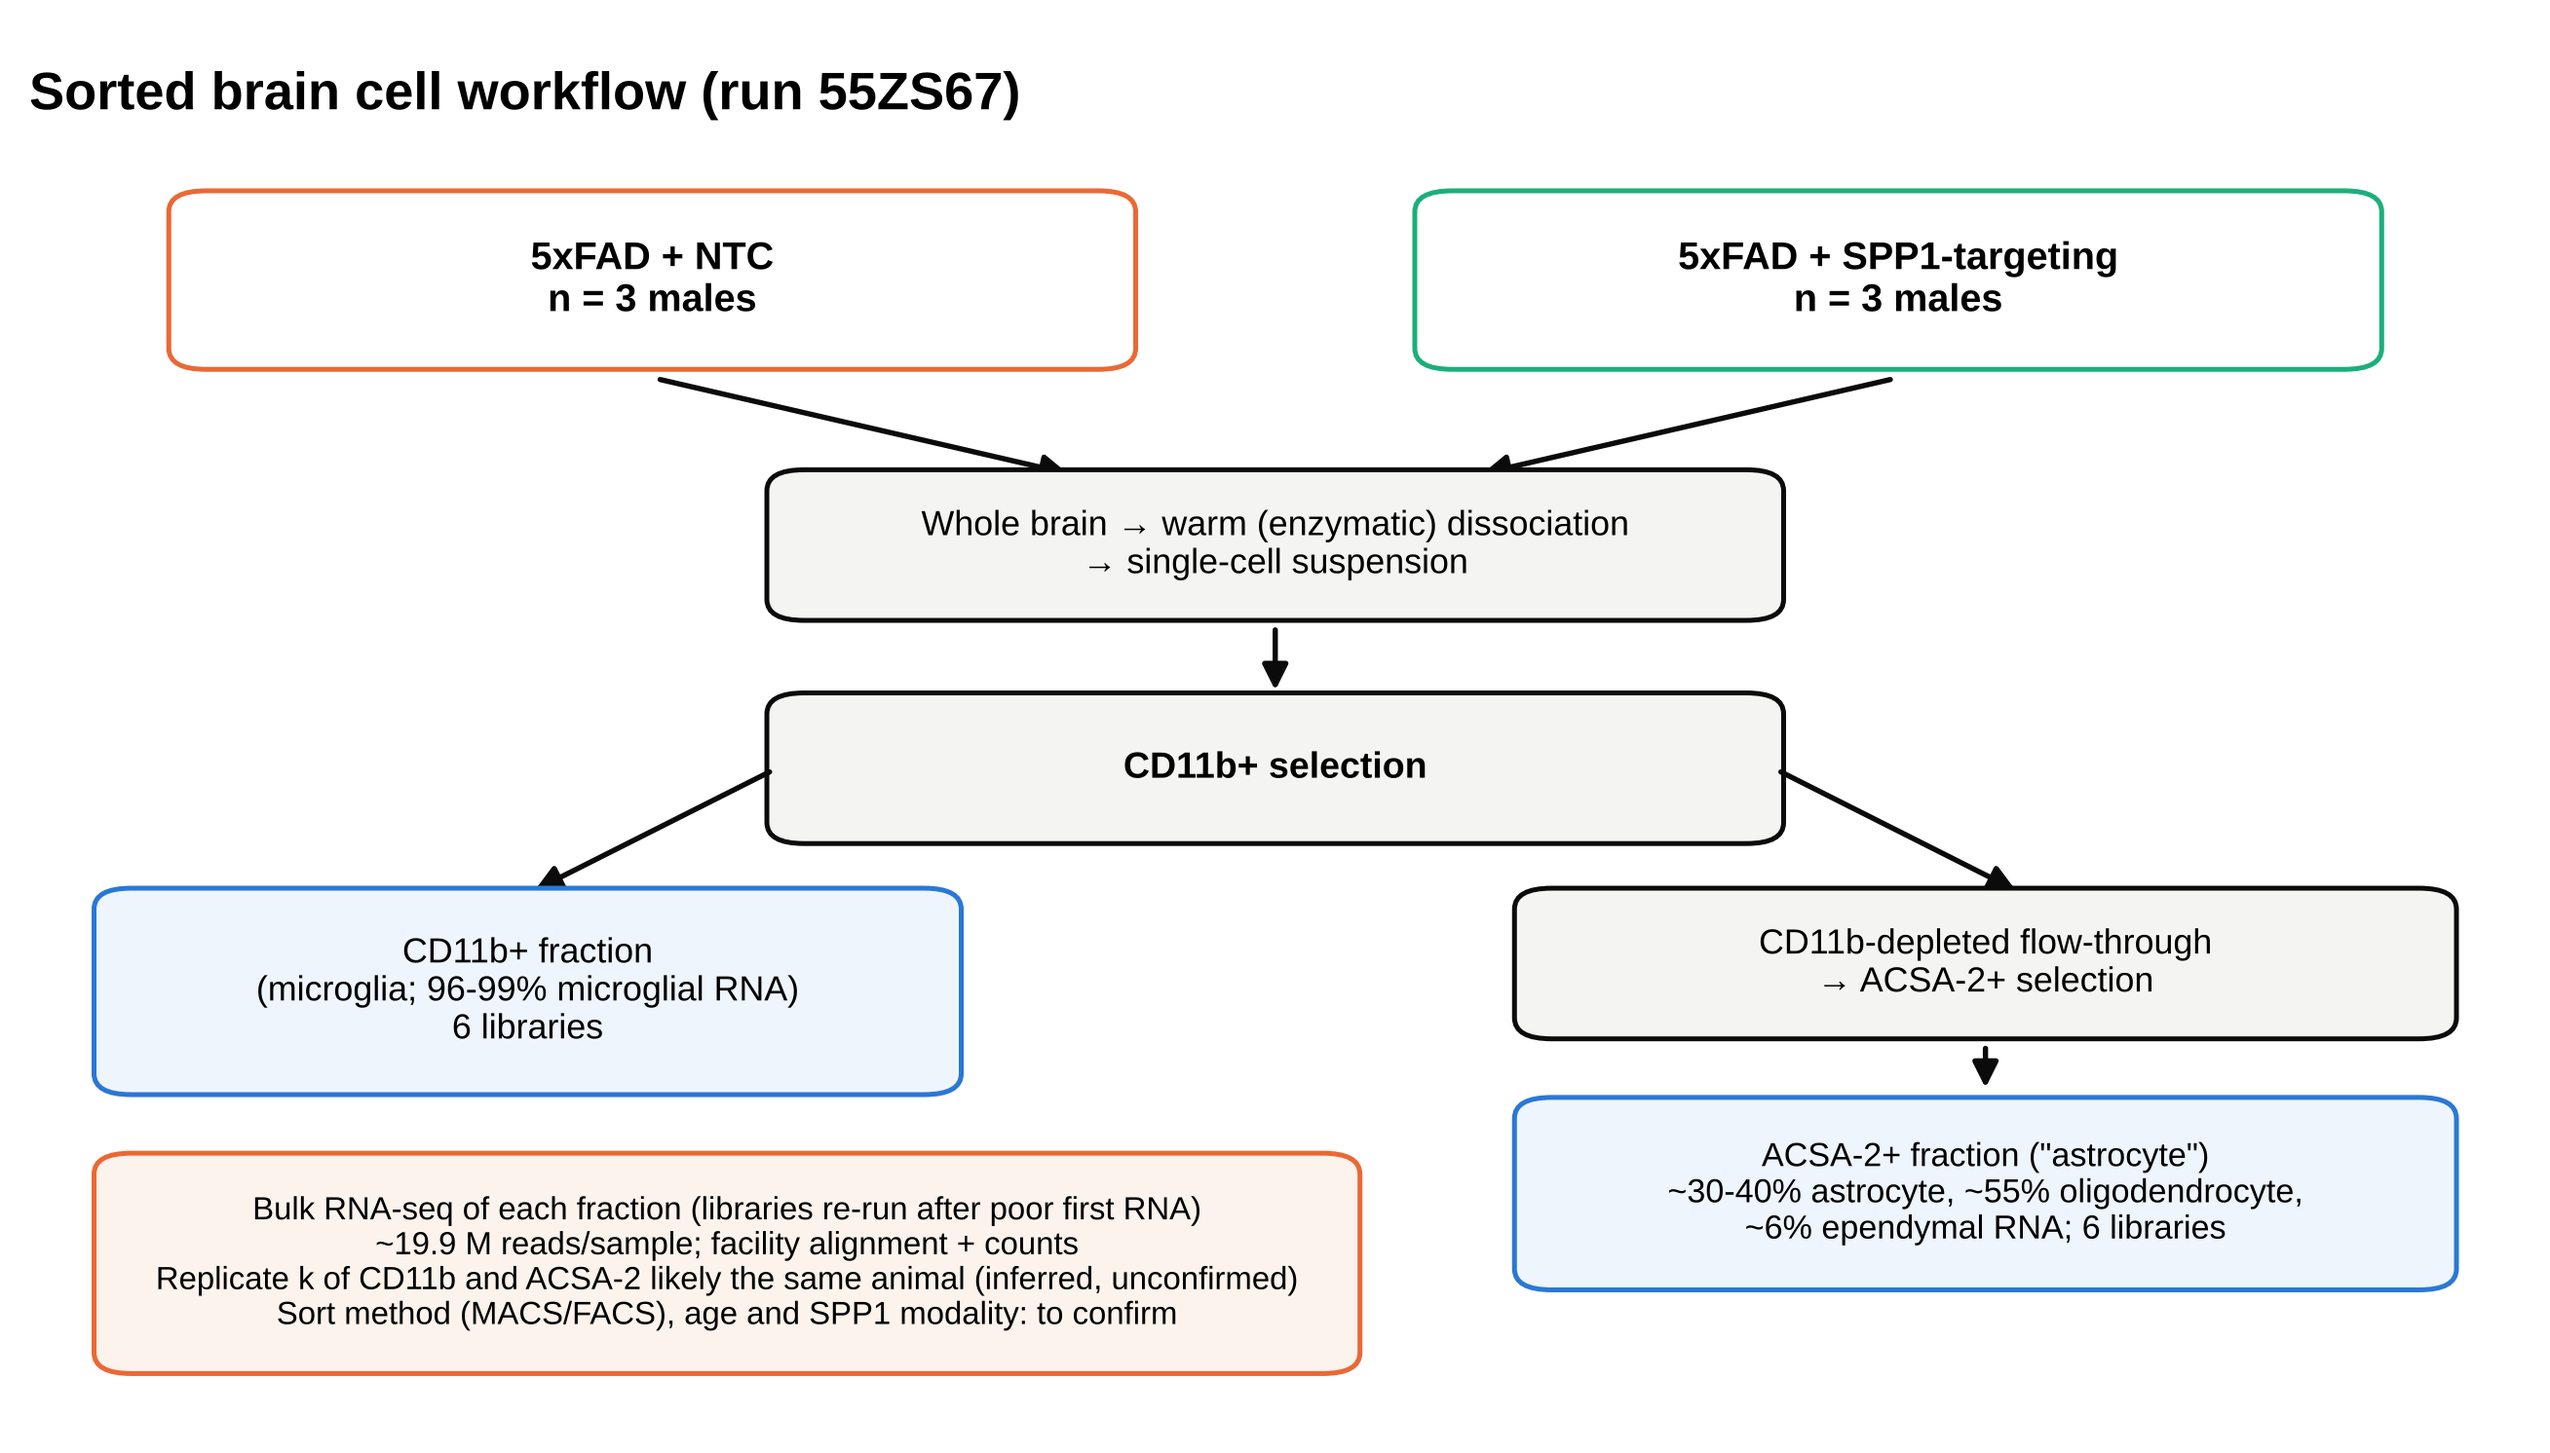
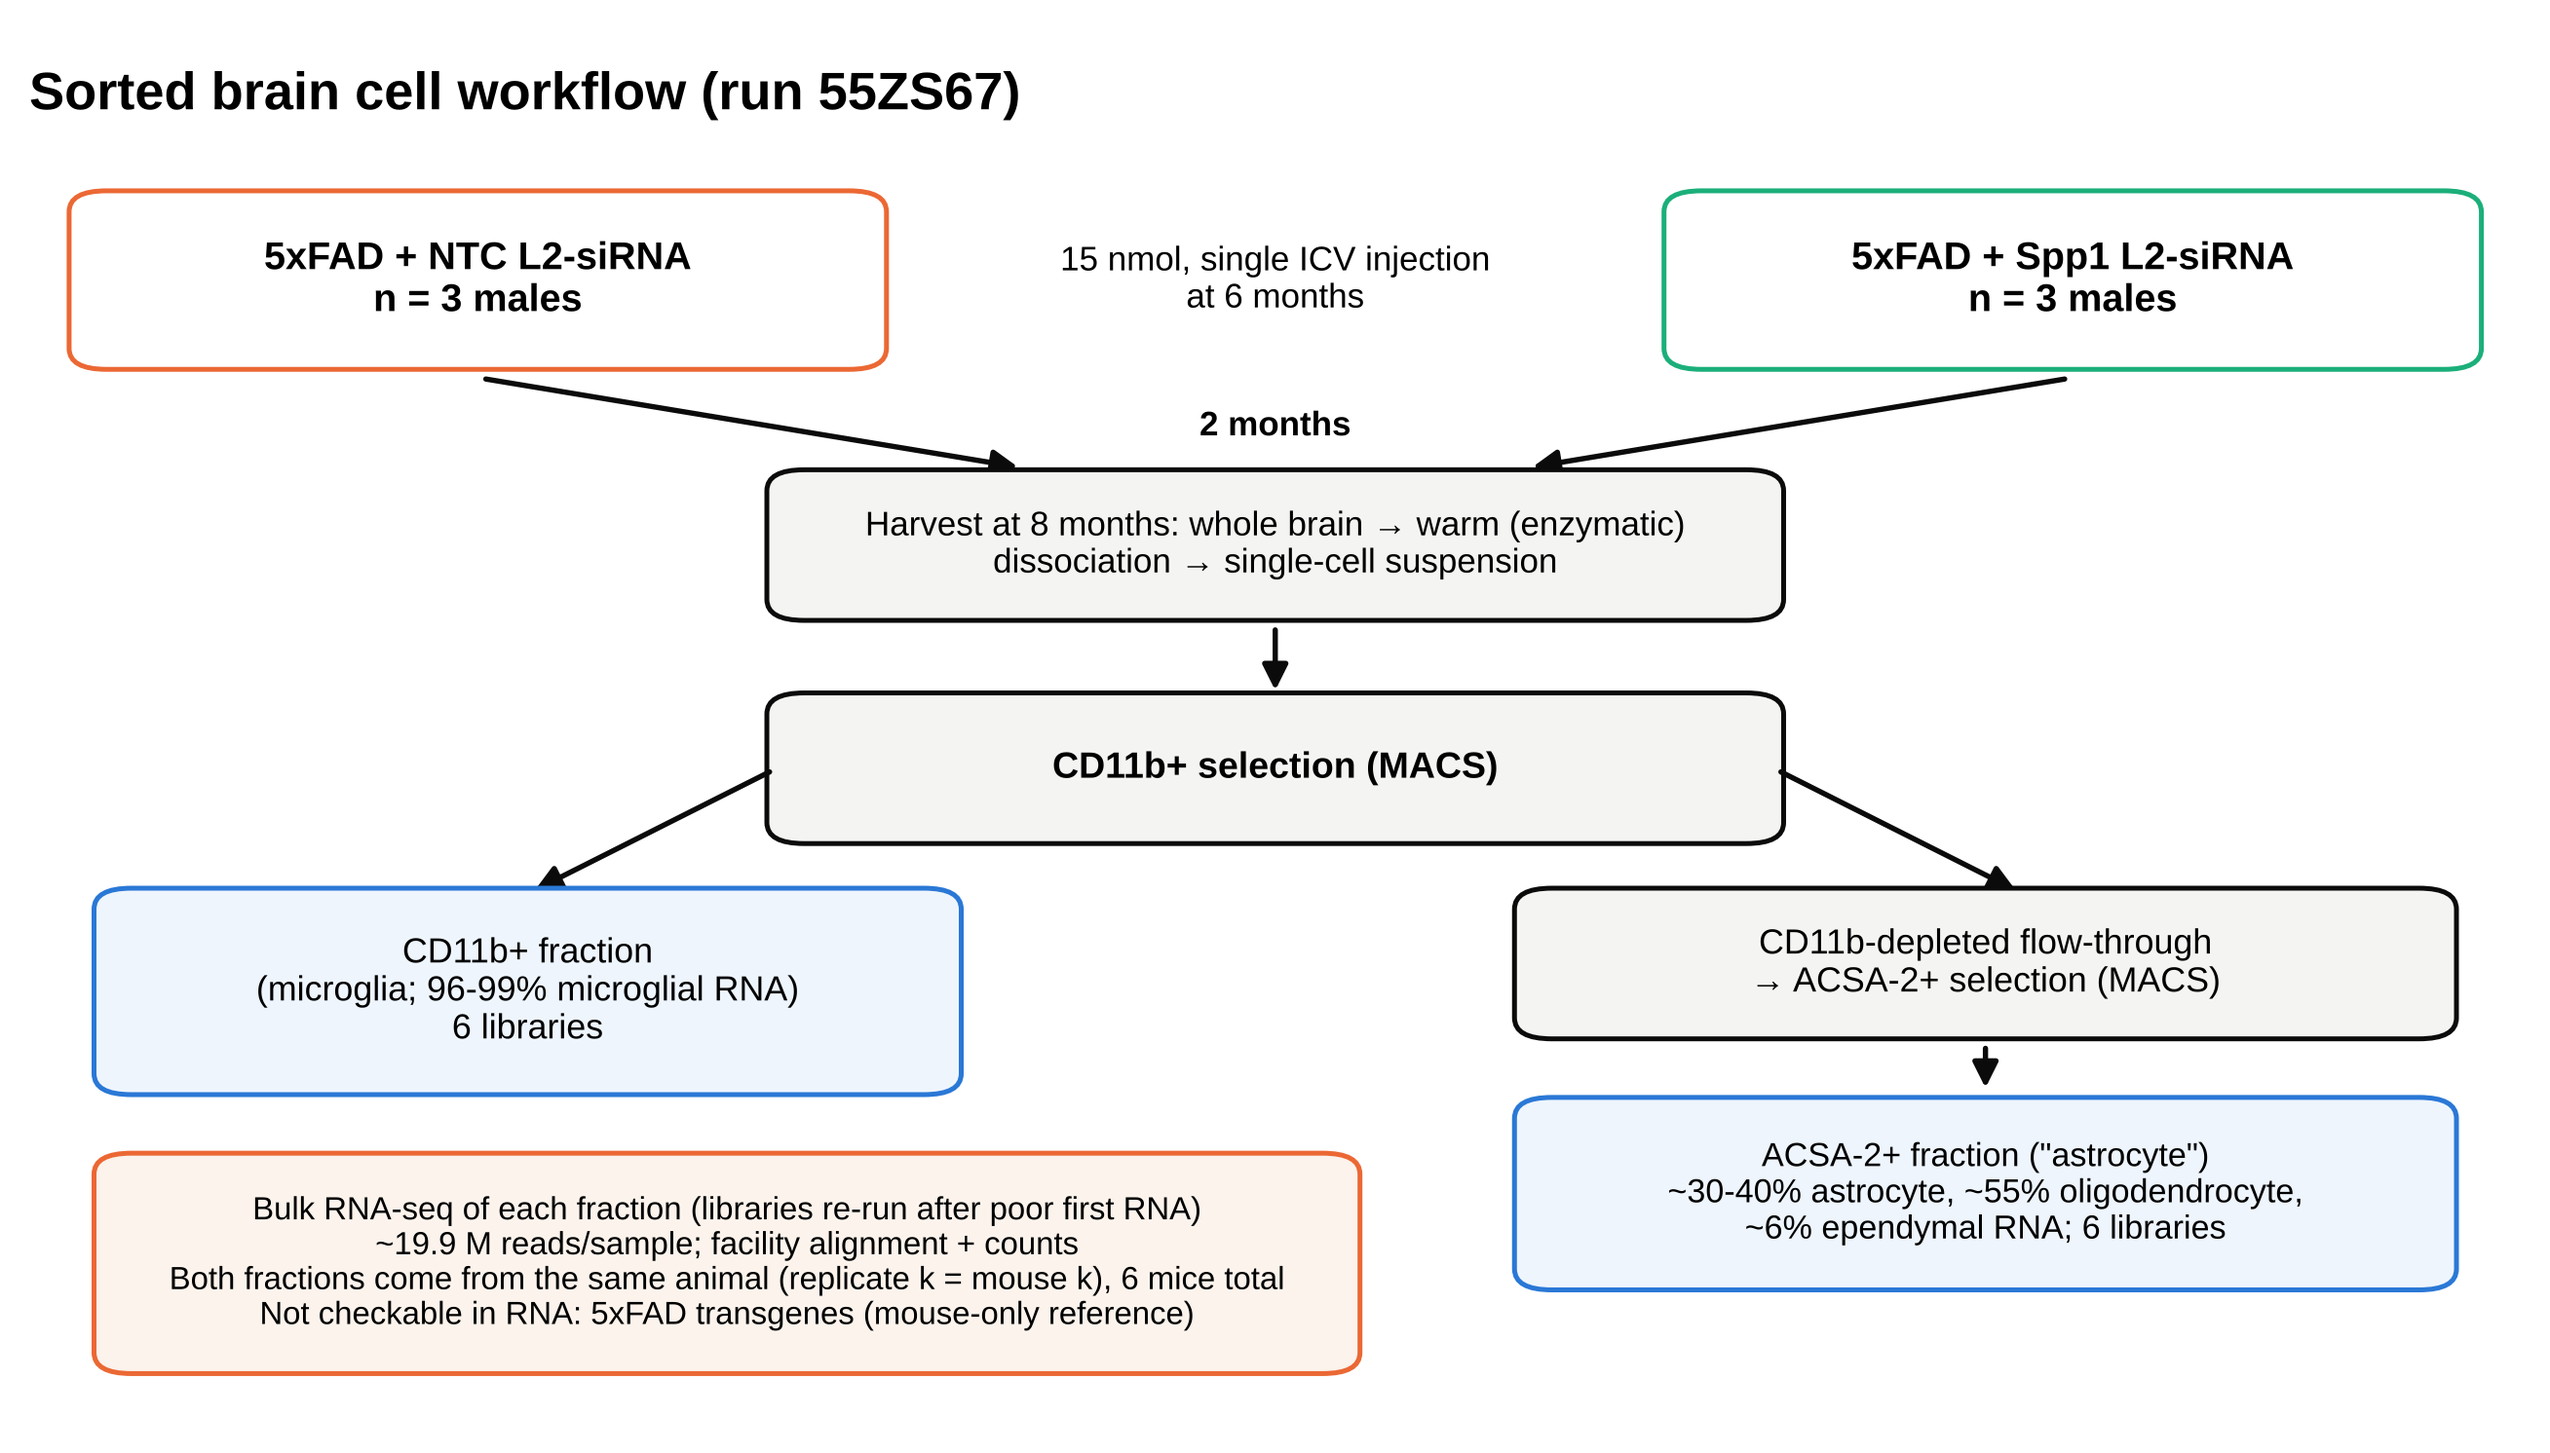
Record confirmed sorted-cell design (same-animal pairing, MACS, 8 mo, L2-siRNA ICV at 6 mo) in schematic and docs
Claude-Session: https://claude.ai/code/session_01LefJr2NMbZw5cq2cBvMigY

diff --git a/publication_figures/make_figures.py b/publication_figures/make_figures.py
@@ -266,22 +266,24 @@ def schematic_sorted():
     fig, ax = plt.subplots(figsize=(11, 6.2))
     ax.set_xlim(0, 1); ax.set_ylim(0, 1); ax.axis("off")
     ax.text(0.0, 0.97, "Sorted brain cell workflow (run 55ZS67)", fontsize=13, fontweight="bold", va="top")
-    box(ax, 0.06, 0.76, 0.38, 0.12, "5xFAD + NTC\nn = 3 males", fc="white", ec=COL["NTC"], fs=9.5, bold=True)
-    box(ax, 0.56, 0.76, 0.38, 0.12, "5xFAD + SPP1-targeting\nn = 3 males", fc="white", ec=COL["SPP1"], fs=9.5, bold=True)
-    arrow(ax, 0.25, 0.75, 0.42, 0.68); arrow(ax, 0.75, 0.75, 0.58, 0.68)
-    box(ax, 0.30, 0.58, 0.40, 0.10, "Whole brain → warm (enzymatic) dissociation\n→ single-cell suspension", fs=8.6)
+    box(ax, 0.02, 0.76, 0.32, 0.12, "5xFAD + NTC L2-siRNA\nn = 3 males", fc="white", ec=COL["NTC"], fs=9.5, bold=True)
+    box(ax, 0.66, 0.76, 0.32, 0.12, "5xFAD + Spp1 L2-siRNA\nn = 3 males", fc="white", ec=COL["SPP1"], fs=9.5, bold=True)
+    ax.text(0.5, 0.82, "15 nmol, single ICV injection\nat 6 months", ha="center", va="center", fontsize=8.4)
+    ax.text(0.5, 0.715, "2 months", ha="center", va="center", fontsize=8.4, fontweight="bold")
+    arrow(ax, 0.18, 0.75, 0.40, 0.685); arrow(ax, 0.82, 0.75, 0.60, 0.685)
+    box(ax, 0.30, 0.58, 0.40, 0.10, "Harvest at 8 months: whole brain → warm (enzymatic)\ndissociation → single-cell suspension", fs=8.4)
     arrow(ax, 0.5, 0.575, 0.5, 0.52)
-    box(ax, 0.30, 0.42, 0.40, 0.10, "CD11b+ selection", fs=9, bold=True)
+    box(ax, 0.30, 0.42, 0.40, 0.10, "CD11b+ selection (MACS)", fs=9, bold=True)
     arrow(ax, 0.30, 0.47, 0.20, 0.38); arrow(ax, 0.70, 0.47, 0.80, 0.38)
     box(ax, 0.03, 0.24, 0.34, 0.14, "CD11b+ fraction\n(microglia; 96-99% microglial RNA)\n6 libraries", fc="#eef5fd", ec=COL["WT_NTC"], fs=8.6)
-    box(ax, 0.60, 0.28, 0.37, 0.10, "CD11b-depleted flow-through\n→ ACSA-2+ selection", fs=8.6)
+    box(ax, 0.60, 0.28, 0.37, 0.10, "CD11b-depleted flow-through\n→ ACSA-2+ selection (MACS)", fs=8.6)
     arrow(ax, 0.785, 0.275, 0.785, 0.235)
     box(ax, 0.60, 0.10, 0.37, 0.13, "ACSA-2+ fraction (\"astrocyte\")\n~30-40% astrocyte, ~55% oligodendrocyte,\n~6% ependymal RNA; 6 libraries", fc="#eef5fd", ec=COL["WT_NTC"], fs=8.2)
     box(ax, 0.03, 0.04, 0.50, 0.15,
         "Bulk RNA-seq of each fraction (libraries re-run after poor first RNA)\n"
         "~19.9 M reads/sample; facility alignment + counts\n"
-        "Replicate k of CD11b and ACSA-2 likely the same animal (inferred, unconfirmed)\n"
-        "Sort method (MACS/FACS), age and SPP1 modality: to confirm", fc="#fbf3ec", ec="#eb6834", fs=7.9)
+        "Both fractions come from the same animal (replicate k = mouse k), 6 mice total\n"
+        "Not checkable in RNA: 5xFAD transgenes (mouse-only reference)", fc="#fbf3ec", ec="#eb6834", fs=7.9)
     save(fig, "00b_workflow_sorted_cells.png")
 
 

diff --git a/sorted_glia_55ZS67/EXECUTIVE_SUMMARY.md b/sorted_glia_55ZS67/EXECUTIVE_SUMMARY.md
@@ -7,7 +7,11 @@
 - **Warm (enzymatic) dissociation.** Ex vivo activation is expected, and it is present.
 - **CD11b+ cells were depleted before ACSA-2 enrichment.** The ~1% microglial RNA in ACSA-2 is residual carry-over that escaped depletion.
 - **"rerun":** the first libraries had poor RNA quality and were re-sequenced. A gene-length check finds no degradation bias in CD11b. ACSA-2 shows a mild bias, the same in both arms (see `03_artifacts/gene_length_quality_index.tsv`).
-- **Still unconfirmed:** pairing of fractions by replicate number; SPP1 modality and timing; age.
+- **Confirmed later (user):**
+  - Replicate *k* is the same animal in both fractions (6 mice total).
+  - Sort method: MACS.
+  - Age at harvest: 8 months.
+  - SPP1 silencing: L2-siRNA, 15 nmol, single ICV injection at 6 months, so harvest was 2 months post-injection.
 
 ## Does 5xFAD pathology differ between SPP1 and NTC? (round 2, `09_pathology/`)
 **No pathology-associated program differs detectably.**
@@ -58,7 +62,7 @@
 - **No WT group and no 5xFAD-vs-WT contrast is possible.** Genotype is not stated anywhere in the files.
 - **All 12 samples are male** (Xist ≈ 0 CPM; Ddx3y/Uty/Kdm5d/Eif2s3y expressed).
 - The facility annotation contains only mouse genes plus 92 ERCC spike-ins. The ERCC spike-ins carry essentially zero reads, so they were probably not added. **Human APP/PSEN1 transgenes cannot be checked from this matrix.**
-- **Likely paired design.** Residual expression profiles link CD11b replicate *k* with ACSA-2 replicate *k* in both arms (matched pairing ranks 1st of 6 in both arms; chance probability ≈ 1/36). Replicate *k* is probably the same animal or processing slot. Please confirm.
+- **Likely paired design.** Residual expression profiles link CD11b replicate *k* with ACSA-2 replicate *k* in both arms (matched pairing ranks 1st of 6 in both arms; chance probability ≈ 1/36). **Confirmed by the user: replicate k is the same animal.**
 
 ## High confidence
 1. **The CD11b+ sort is pure microglia:** about 96–99% microglial RNA by deconvolution. Astrocyte, oligodendrocyte and neuron markers are about 1% of their ACSA-2 levels.
@@ -118,9 +122,9 @@ With n = 3 vs 3:
 
 ## Open questions for you (answers change the analysis)
 1. ~~Genotype~~: answered, all 5xFAD. Still open: age; any WT sorted data?
-2. **SPP1 modality.** Is it an ASO, AAV-shRNA, CRISPRi or siRNA? What is the route and the time from dosing to harvest? Is there a vector sequence (for reads in unmapped FASTQs)?
-3. **Pairing.** Do replicate numbers mean the same animal across fractions?
-4. **Sorting** (partly answered: CD11b depleted first, warm dissociation, whole brain). Still open: MACS or FACS? Transcription inhibitors?
+2. ~~SPP1 modality~~: answered. L2-siRNA, 15 nmol, single ICV injection at 6 months, harvest at 8 months.
+3. ~~Pairing~~: answered. Same animal.
+4. ~~Sorting~~: answered. MACS. Still open: were transcription inhibitors used during dissociation?
 5. ~~rerun~~: answered (poor RNA the first time). Still open: RIN/DV200 of the rerun, and whether arms were extracted or prepped on different days.
 6. **Raw data.** Can you provide FASTQs for transgene confirmation and gene-body coverage?
 7. **Pathology.** Are plaque load or Iba1 data available per animal?

diff --git a/publication_figures/FIGURE_LEGENDS.md b/publication_figures/FIGURE_LEGENDS.md
@@ -44,7 +44,10 @@ Conventions: dots = individual animals (circle = female, triangle = male); line 
 - whole-dura bulk RNA-seq;
 - known limitations carried into the analysis.
 
-**00b_workflow_sorted_cells.** Sorted-cell design: 5xFAD males, 3 per arm; whole-brain warm dissociation; CD11b+ selection; ACSA-2+ selection from the CD11b-depleted fraction. Purity of each fraction, and items still to confirm (sort method, age, SPP1 modality, animal pairing).
+**00b_workflow_sorted_cells.** Sorted-cell design:
+- 5xFAD males, 3 per arm, given a single 15 nmol ICV dose of Spp1-targeting or non-targeting L2-siRNA at 6 months and harvested at 8 months (2 months post-injection).
+- Whole-brain warm dissociation; CD11b+ MACS; ACSA-2+ MACS from the CD11b-depleted fraction.
+- Both fractions come from the same 6 mice.
 
 **00c_workflow_analysis.** Shared analysis pipeline: QC → composition/purity → DESeq2 (+ adjusted models) → camera gene sets → cross-tissue integration and upload kits.
 
